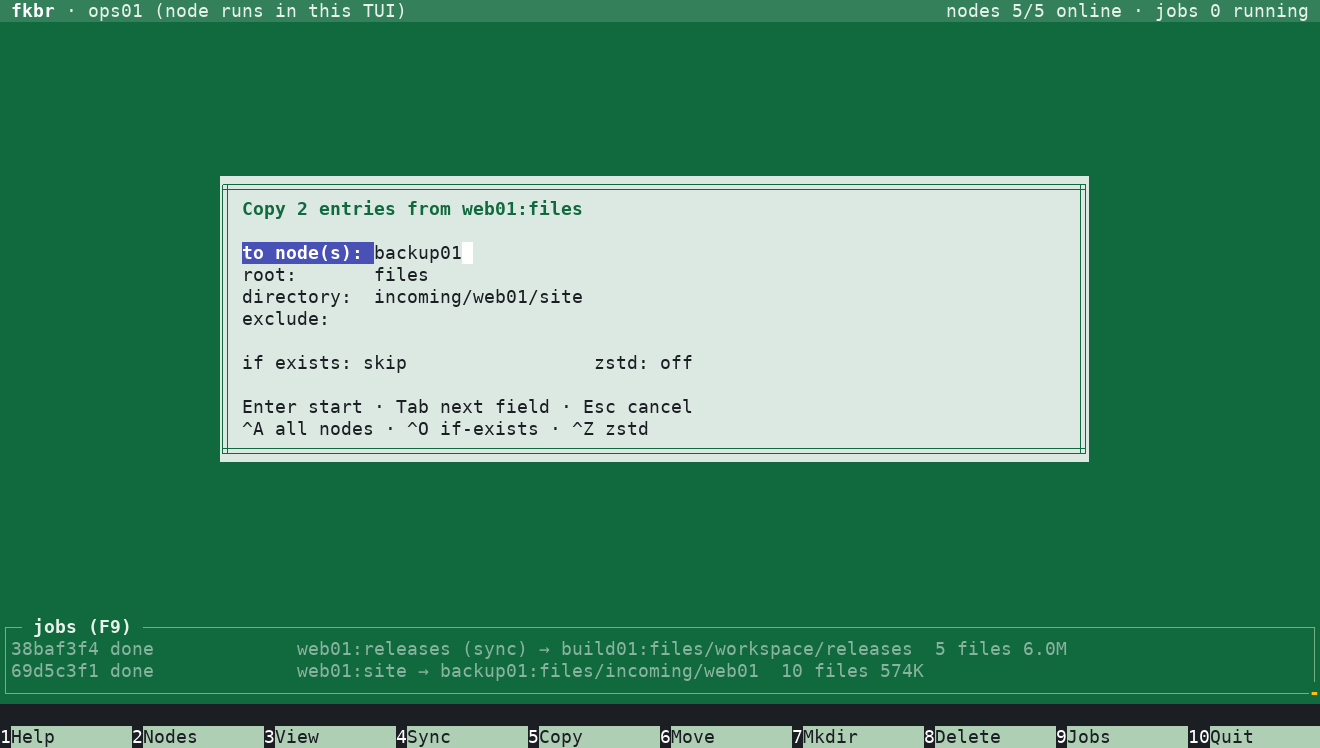
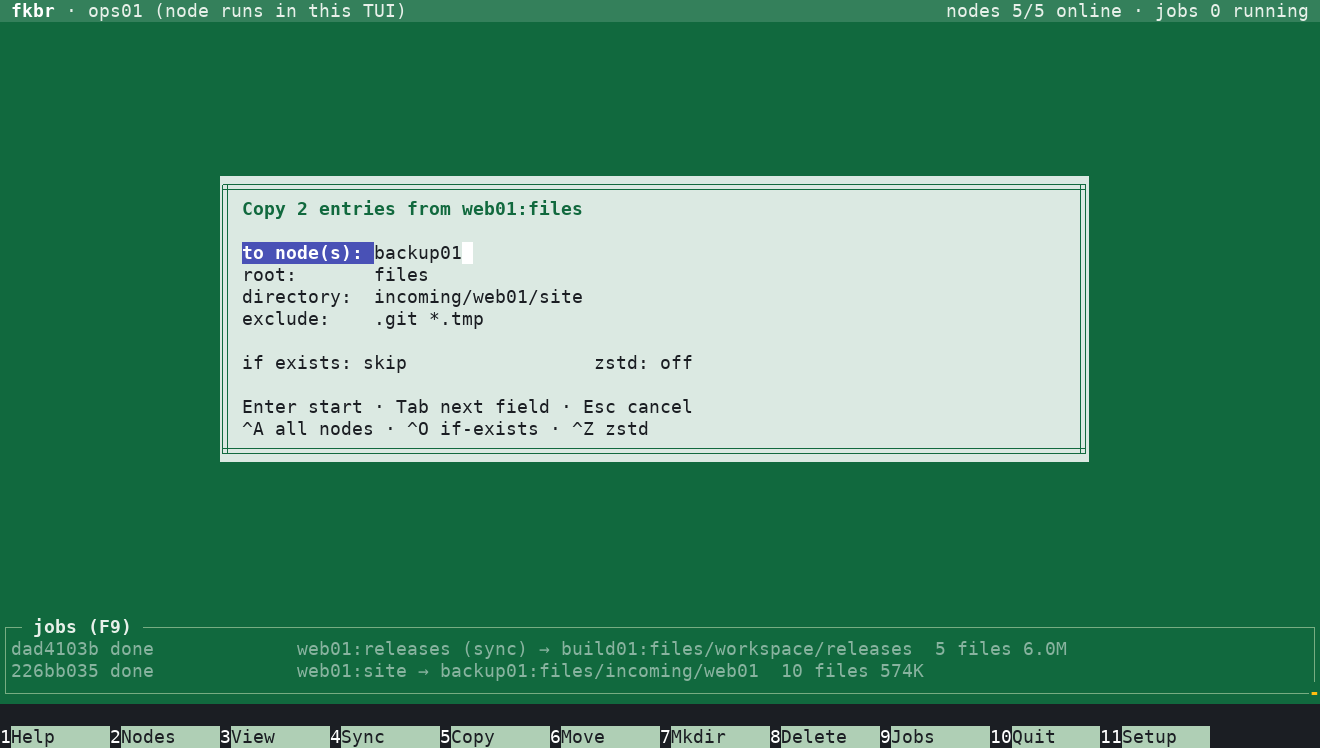
Screenshots retaken, with the settings dialog (the demo has its own HOME and ~/.fkbr.conf; dumps not zeros; panes start in folders)

diff --git a/scripts/screenshots/shoot.py b/scripts/screenshots/shoot.py
@@ -20,7 +20,7 @@ KEYS = {
     "up": b"\x1b[A", "down": b"\x1b[B", "enter": b"\r", "tab": b"\t",
     "insert": b"\x1b[2~", "esc": b"\x1b", "bs": b"\x7f", "home": b"\x1b[H",
     "f1": b"\x1bOP", "f2": b"\x1bOQ", "f3": b"\x1bOR", "f4": b"\x1bOS", "f5": b"\x1b[15~",
-    "f9": b"\x1b[20~", "ctrlc": b"\x03", "ctrla": b"\x01", "ctrlo": b"\x0f",
+    "f9": b"\x1b[20~", "f11": b"\x1b[23~", "ctrlc": b"\x03", "ctrla": b"\x01", "ctrlo": b"\x0f",
 }
 NAMED = {  # xterm defaults, for 16-colour output
     "black": (0, 0, 0), "red": (205, 0, 0), "green": (0, 205, 0), "brown": (205, 205, 0),

diff --git a/README.md b/README.md
@@ -76,8 +76,10 @@ doing, updated live.
 ![The viewer showing a build configuration on build01](docs/screenshots/fkbr-view.png)
 
 **Settings (F11).** Colours, mouse, what the copy dialogs start with,
-this node's name, share and limits, kept in the config file; only what
+this node's name, share and limits, kept in `~/.fkbr.conf`; only what
 you change is written.
+
+![The settings dialog](docs/screenshots/fkbr-settings.png)
 
 **F1** lists every key.
 
